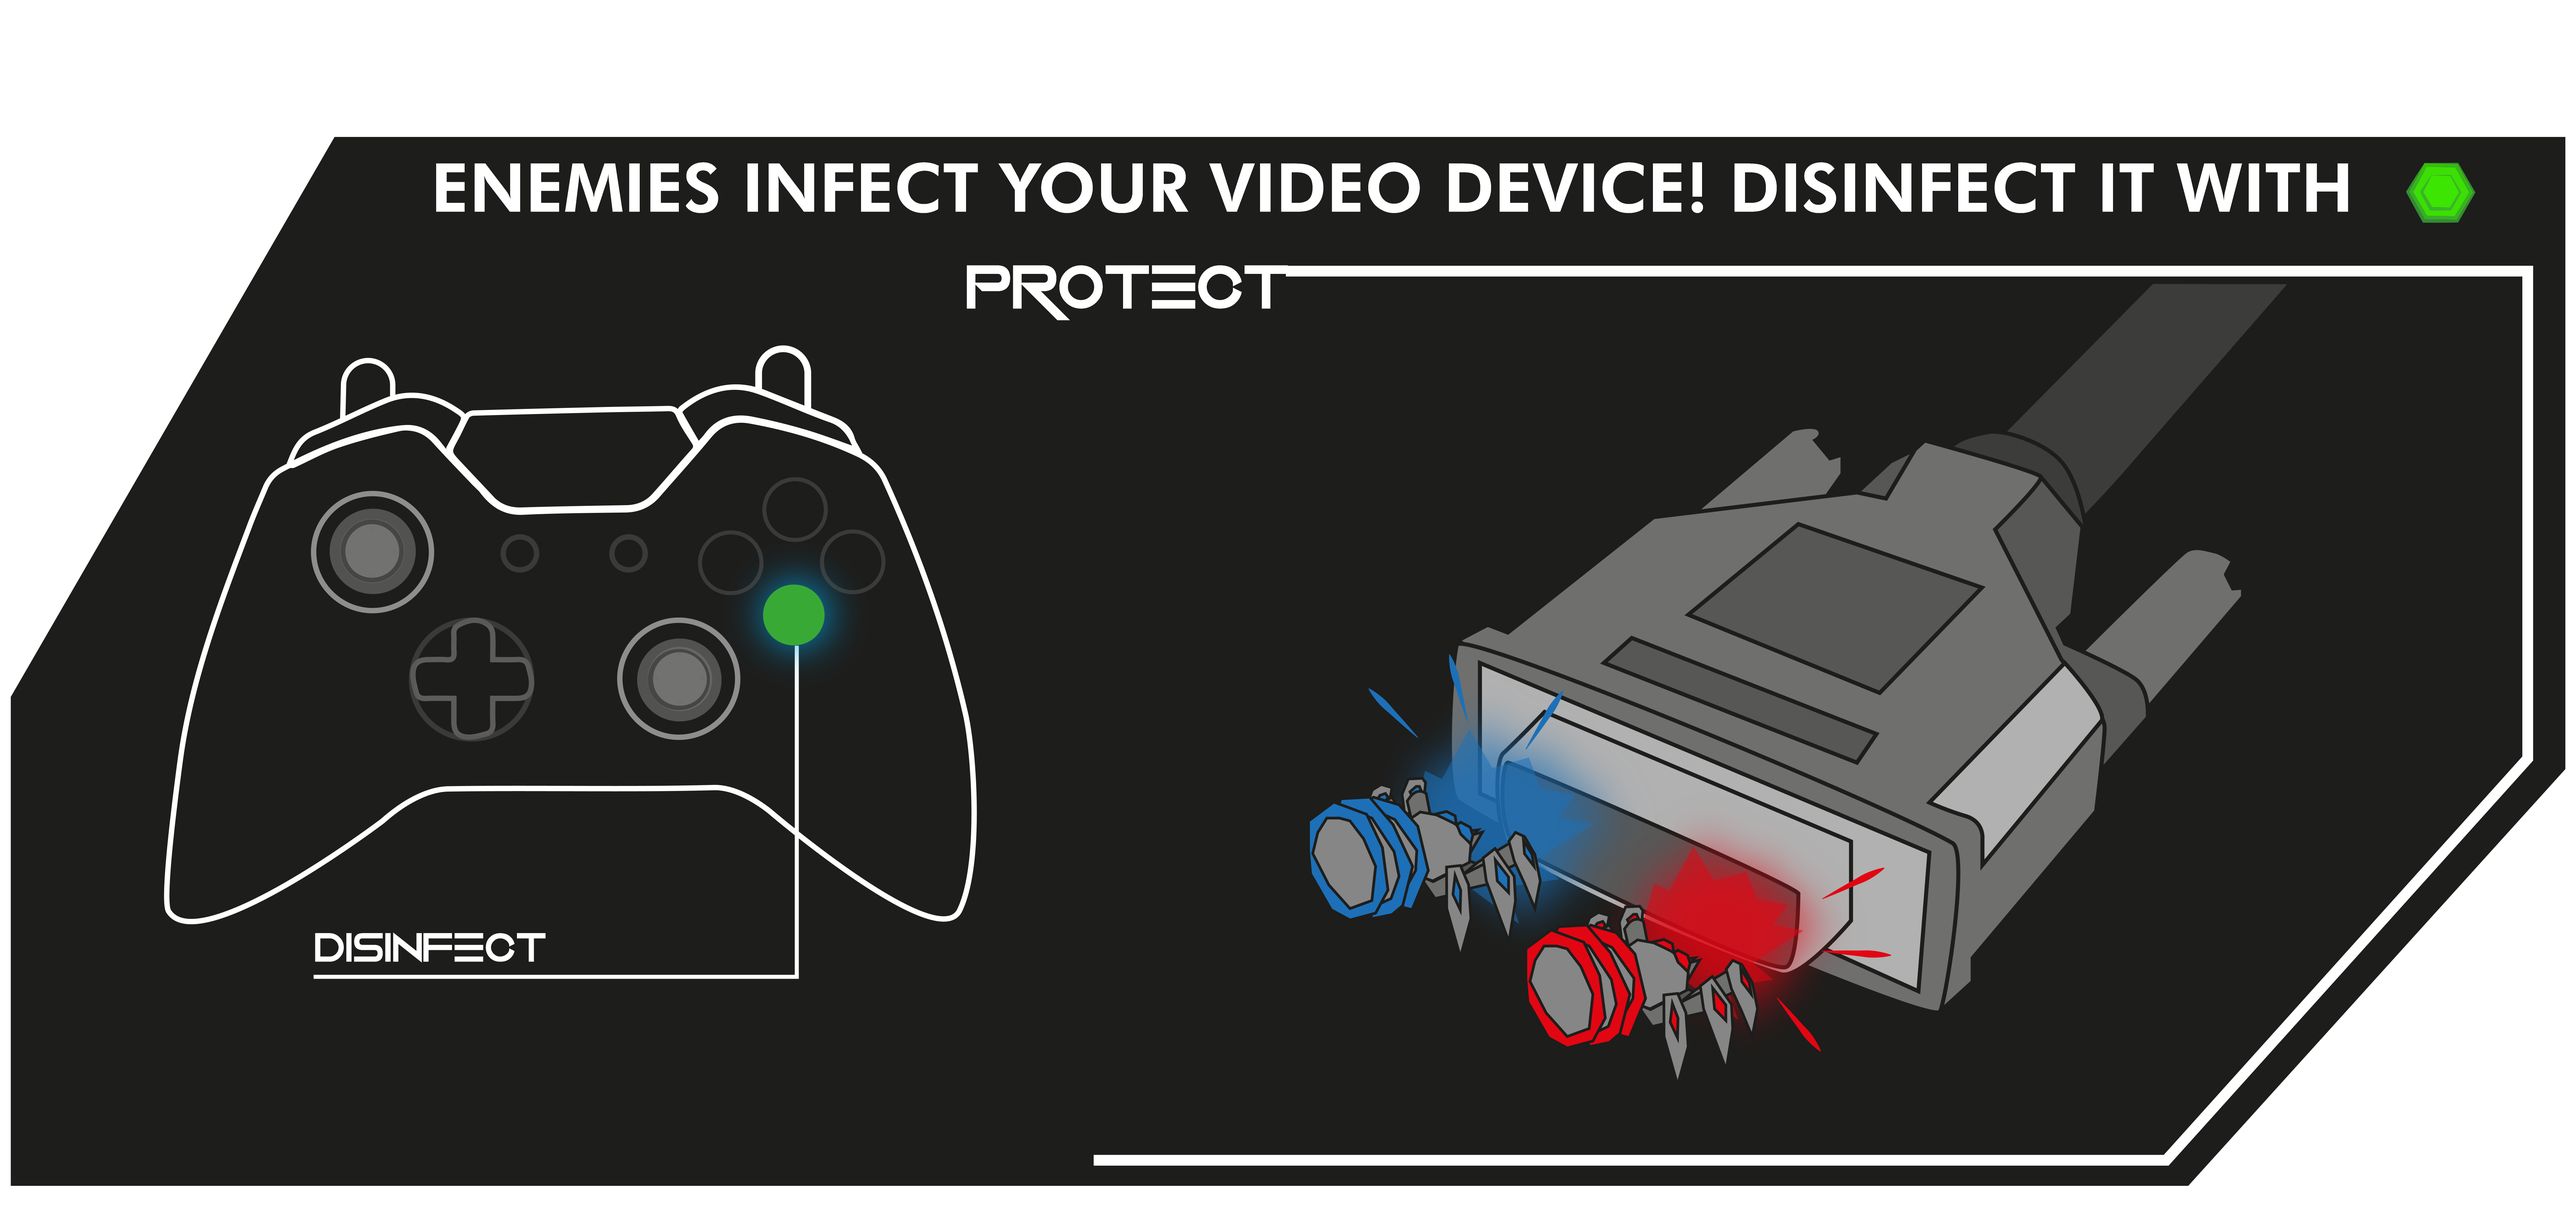
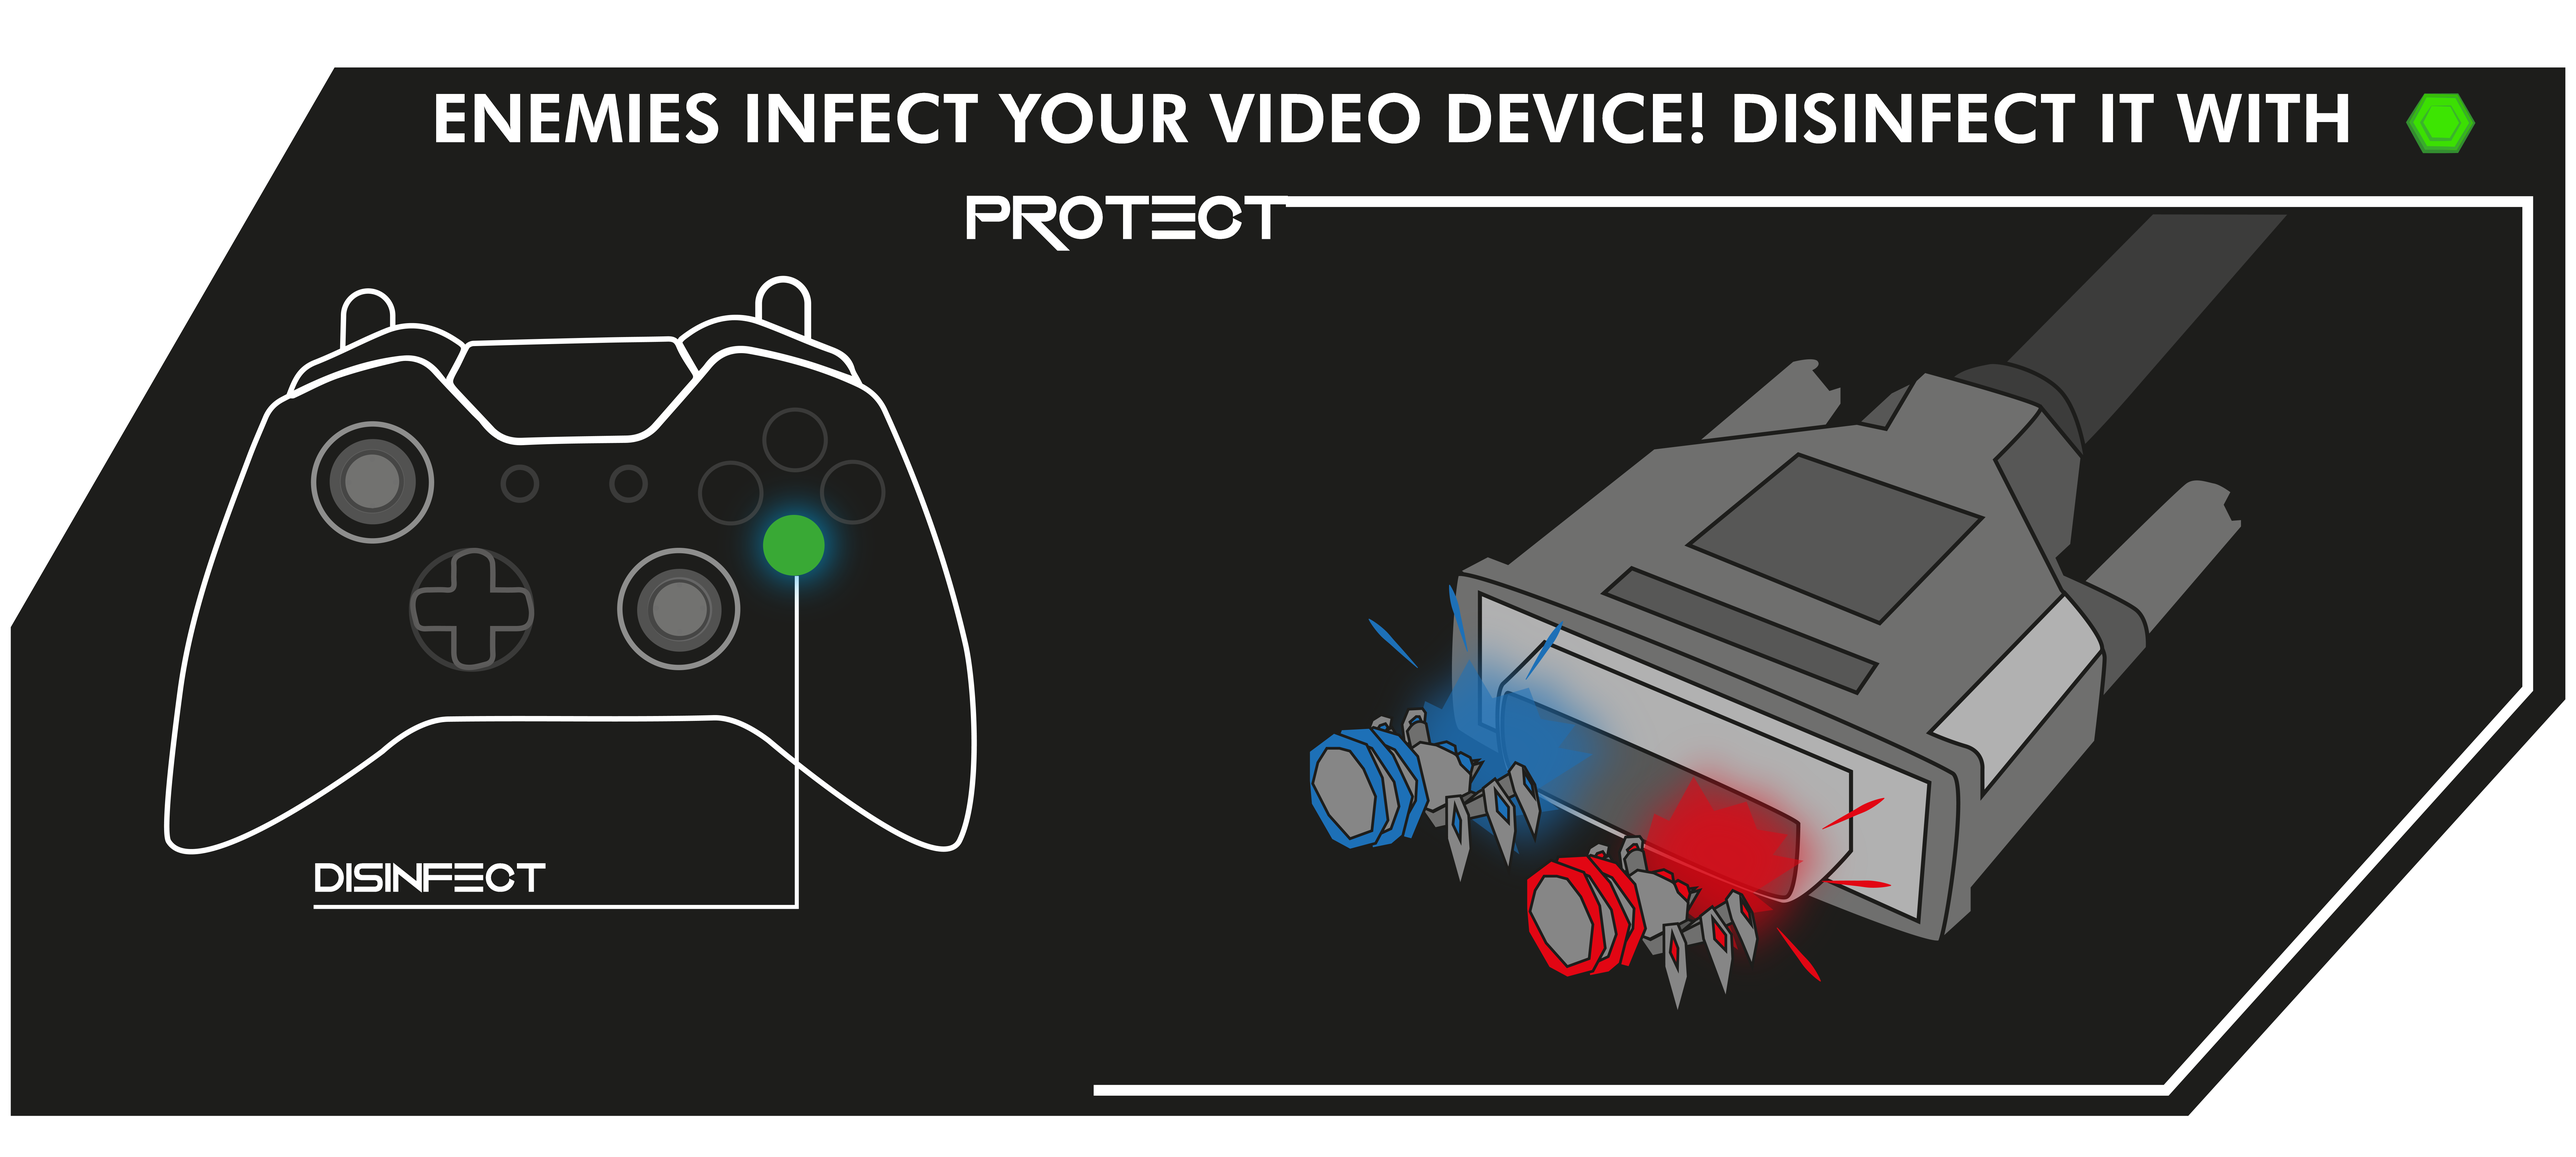
FIX: Device tutorial image
FIX: Next color UI Zone active when started
FIX: Meteor warning sign now does not blink

diff --git a/Assets/Scripts/GamePlay/BossFloor/States/HexagonMeteorAttackState.cs b/Assets/Scripts/GamePlay/BossFloor/States/HexagonMeteorAttackState.cs
@@ -23,6 +23,11 @@ public class HexagonMeteorAttackState : HexagonBaseState
     {
         base.OnStateEnter();
 
+        hex.planeBlinkController.StopPreviousBlinkings();
+        hex.plane.transform.localScale = new Vector3(0.1f, 1f, 0.1f);
+        hex.SetPlaneMaterial(hex.planeSecondaryWarningMat);
+        //hex.planeBlinkController.BlinkTransparentNoStop(hex.warningBlinkInterval, hex.warningBlinkInterval);
+
         subState = SubState.WAITING;
         elapsedTime = 0f;
     }
@@ -48,11 +53,7 @@ public class HexagonMeteorAttackState : HexagonBaseState
                     meteor = rsc.poolMng.meteorPool.GetObject();
                     meteor.transform.position = hex.meteorInitialPosition.position;
                     meteor.transform.rotation = Random.rotation;
-
-                    hex.plane.transform.localScale = new Vector3(0.1f, 1f, 0.1f);
-                    hex.SetPlaneMaterial(hex.planeSecondaryWarningMat);
-                    hex.planeBlinkController.BlinkTransparentNoStop(hex.warningBlinkInterval, hex.warningBlinkInterval);
-
+                   
                     elapsedTime = 0f;
                     subState = SubState.WARNING;
                 }
@@ -65,9 +66,7 @@ public class HexagonMeteorAttackState : HexagonBaseState
             case SubState.WARNING:
                 if(elapsedTime >= hex.meteorWarningTime)
                 {
-                    hex.planeBlinkController.StopPreviousBlinkings();
                     hex.plane.transform.localScale = Vector3.one;
-
                     hex.StartPlaneInfectionAnimation();
 
                     hex.columnBlinkController.InvalidateMaterials();
@@ -105,16 +104,19 @@ public class HexagonMeteorAttackState : HexagonBaseState
                 }
                 else
                 {
-                    if(shakeTime >= hex.meteorImpactShakeInterval)
+                    if (hex.meteorImpactMaxShakeHeight > 0)
                     {
-                        shakeTime -= hex.meteorImpactShakeInterval;
-                        float randHeight = Random.Range(0, hex.meteorImpactMaxShakeHeight) * lastHeightDir;
-                        lastHeightDir *= -1;
-                        hex.geometryOffset.transform.position = new Vector3(hex.geometryOffset.transform.position.x, hex.geometryOriginalY + randHeight, hex.geometryOffset.transform.position.z);
-                    }
-                    else
-                    {
-                        shakeTime += Time.deltaTime;
+                        if (shakeTime >= hex.meteorImpactShakeInterval)
+                        {
+                            shakeTime -= hex.meteorImpactShakeInterval;
+                            float randHeight = Random.Range(0, hex.meteorImpactMaxShakeHeight) * lastHeightDir;
+                            lastHeightDir *= -1;
+                            hex.geometryOffset.transform.position = new Vector3(hex.geometryOffset.transform.position.x, hex.geometryOriginalY + randHeight, hex.geometryOffset.transform.position.z);
+                        }
+                        else
+                        {
+                            shakeTime += Time.deltaTime;
+                        }
                     }
 
                     elapsedTime += Time.deltaTime;

diff --git a/Assets/Scripts/GamePlay/Floor/BossFloorController.cs b/Assets/Scripts/GamePlay/Floor/BossFloorController.cs
@@ -91,7 +91,7 @@ public class BossFloorController : MonoBehaviour
     void Update()
     {
         //TODO: remove when tested
-        if (Input.GetKeyDown(KeyCode.M))
+        if (Input.GetKeyDown(KeyCode.N))
         {
             hex.FallMeteor(0f, 3f);
         }        

diff --git a/Assets/ZZ_ExternalResources/InControl/InControl/Source/VersionInfo.cs b/Assets/ZZ_ExternalResources/InControl/InControl/Source/VersionInfo.cs
@@ -28,7 +28,7 @@ namespace InControl
 				Major = 1,
 				Minor = 4,
 				Patch = 4,
-				Build = 6479
+				Build = 6481
 			};
 		}
 
